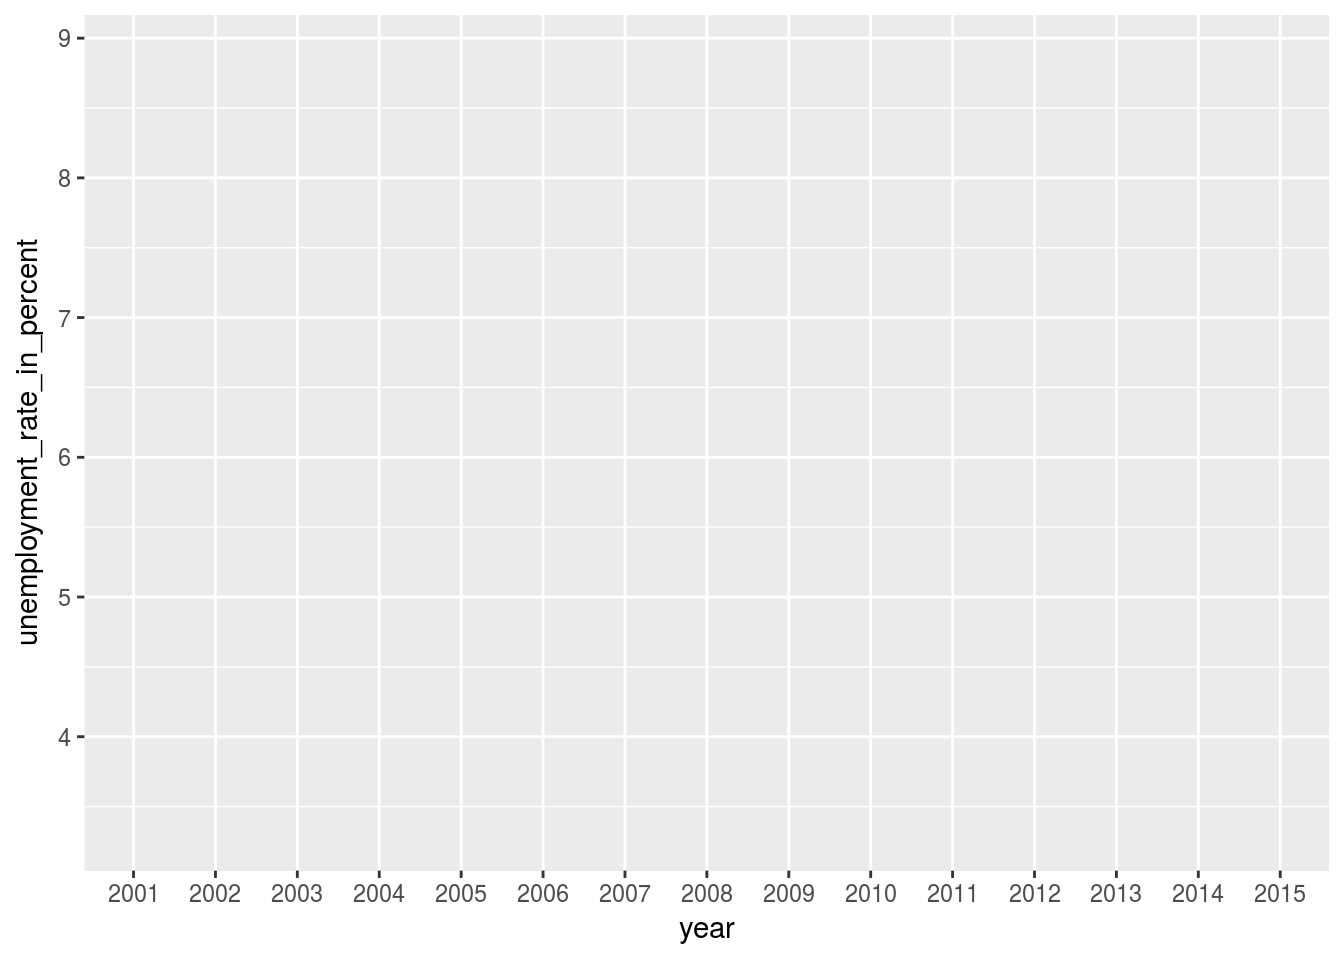
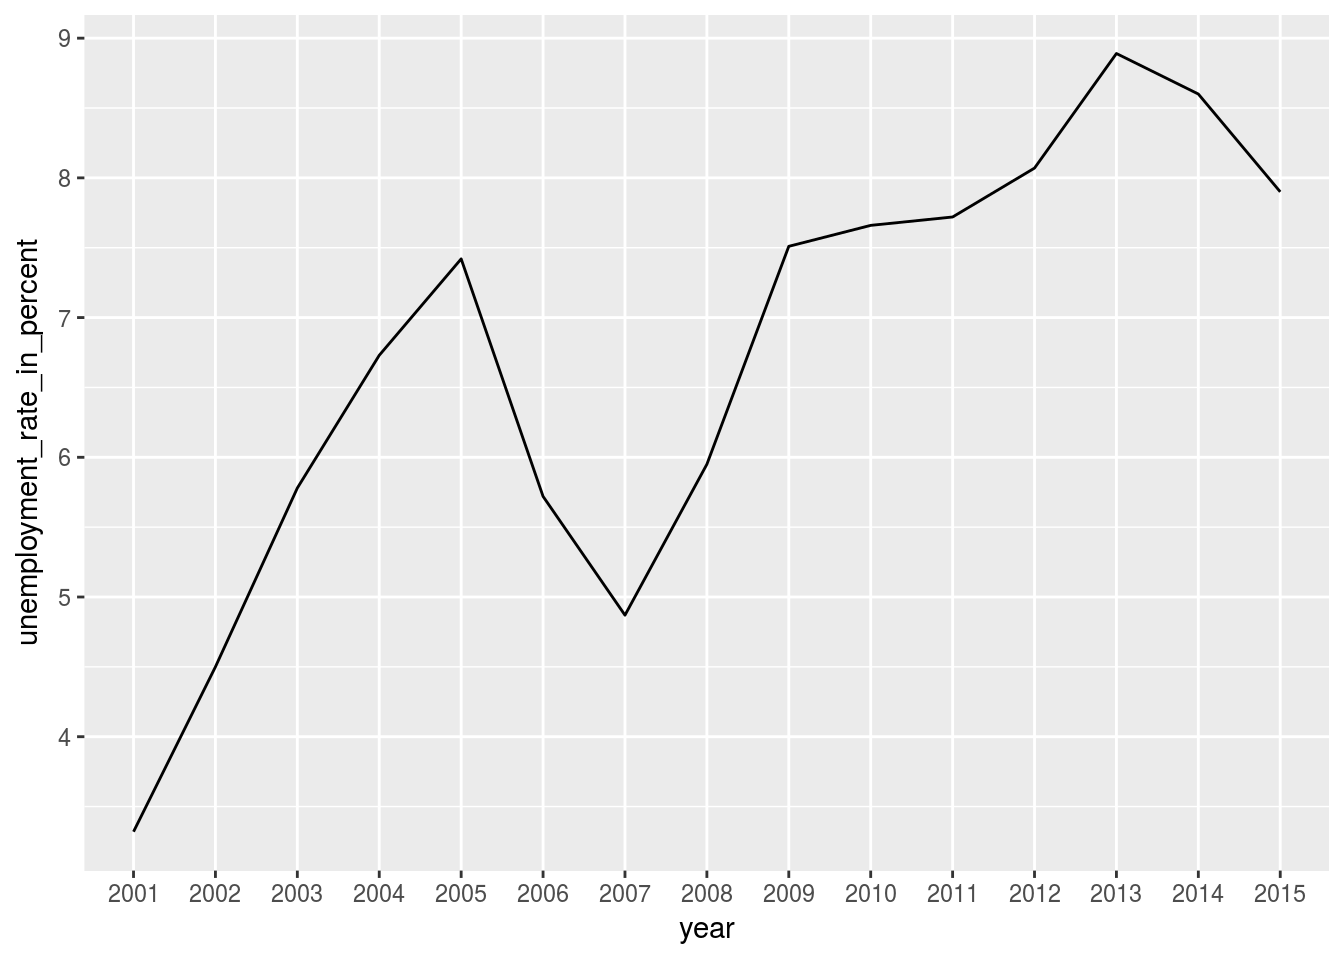
more on plots

diff --git a/_book/graphs.html b/_book/graphs.html
@@ -25,7 +25,7 @@
 <meta name="author" content="Bruno Rodrigues">
 
 
-<meta name="date" content="2017-10-13">
+<meta name="date" content="2017-10-16">
 
   <meta name="viewport" content="width=device-width, initial-scale=1">
   <meta name="apple-mobile-web-app-capable" content="yes">
@@ -190,6 +190,11 @@ code > span.in { color: #60a0b0; font-weight: bold; font-style: italic; } /* Inf
 <p>By default, it is possible to make a lot of graphs with R without the need of any external packages. However, in this chapter, we are going to learn how to make graphs using <code>ggplot2</code> which is a very powerful package that produces amazing graphs. There is an entry cost to <code>ggplot2</code> as it works in a very different way than what you would expect. But the resulting graphs are well worth the effort.</p>
 <div id="ggplot2" class="section level2">
 <h2><span class="header-section-number">6.1</span> ggplot2</h2>
+<p>Resources: <a href="http://www.cookbook-r.com/Graphs/">R Graphics Cookbook</a></p>
+<p><a href="http://motioninsocial.com/tufte/">Tufte in R</a></p>
+<p><a href="http://www.ggplot2-exts.org/gallery/">ggplot2 extensions</a></p>
+<p><a href="http://www.r-graph-gallery.com/portfolio/ggplot2-package/">R graph gallery</a></p>
+<p><a href="https://cran.r-project.org/web/packages/ggthemes/vignettes/ggthemes.html">ggthemes Vignette</a></p>
 <div id="barplots" class="section level3">
 <h3><span class="header-section-number">6.1.1</span> Barplots</h3>
 <div class="sourceCode"><pre class="sourceCode r"><code class="sourceCode r"><span class="kw">library</span>(ggplot2)
@@ -223,11 +228,38 @@ code > span.in { color: #60a0b0; font-weight: bold; font-style: italic; } /* Inf
 
 unemp_lux_data <span class="op">%&gt;%</span>
 <span class="st">  </span><span class="kw">filter</span>(division <span class="op">==</span><span class="st"> &quot;Luxembourg&quot;</span>) <span class="op">%&gt;%</span>
-<span class="st">  </span><span class="kw">ggplot</span>(<span class="kw">aes</span>(year, unemployment_rate_in_percent)) <span class="op">+</span>
+<span class="st">  </span><span class="kw">ggplot</span>(<span class="kw">aes</span>(year, unemployment_rate_in_percent, <span class="dt">group =</span> <span class="dv">1</span>)) <span class="op">+</span>
 <span class="st">  </span><span class="kw">geom_line</span>()</code></pre></div>
-<pre><code>## geom_path: Each group consists of only one observation. Do you need to
-## adjust the group aesthetic?</code></pre>
 <p><img src="modern_r_for_statec_files/figure-html/unnamed-chunk-105-1.png" width="672" /></p>
+<div class="sourceCode"><pre class="sourceCode r"><code class="sourceCode r">unemp_lux_data <span class="op">%&gt;%</span>
+<span class="st">  </span><span class="kw">filter</span>(division <span class="op">==</span><span class="st"> &quot;Luxembourg&quot;</span> <span class="op">|</span><span class="st"> </span>division <span class="op">==</span><span class="st"> &quot;Esch-sur-Alzette&quot;</span>) <span class="op">%&gt;%</span>
+<span class="st">  </span><span class="kw">ggplot</span>(<span class="kw">aes</span>(year, unemployment_rate_in_percent, <span class="dt">group =</span> division, <span class="dt">color =</span> division)) <span class="op">+</span>
+<span class="st">  </span><span class="kw">geom_line</span>()</code></pre></div>
+<p><img src="modern_r_for_statec_files/figure-html/unnamed-chunk-106-1.png" width="672" /></p>
+<div class="sourceCode"><pre class="sourceCode r"><code class="sourceCode r">unemp_lux_data <span class="op">%&gt;%</span>
+<span class="st">  </span><span class="kw">filter</span>(division <span class="op">==</span><span class="st"> &quot;Luxembourg&quot;</span> <span class="op">|</span><span class="st"> </span>division <span class="op">==</span><span class="st"> &quot;Esch-sur-Alzette&quot;</span>) <span class="op">%&gt;%</span>
+<span class="st">  </span><span class="kw">ggplot</span>(<span class="kw">aes</span>(year, unemployment_rate_in_percent, <span class="dt">group =</span> division, <span class="dt">color =</span> division)) <span class="op">+</span>
+<span class="st">  </span><span class="kw">theme</span>(<span class="dt">legend.position =</span> <span class="st">&quot;bottom&quot;</span>) <span class="op">+</span><span class="st"> </span>
+<span class="st">  </span><span class="kw">labs</span>(<span class="dt">title=</span><span class="st">&quot;Unemployment in Luxembourg and Esch/Alzette&quot;</span>, <span class="dt">x=</span><span class="st">&quot;Year&quot;</span>, <span class="dt">y =</span> <span class="st">&quot;Rate&quot;</span>)<span class="op">+</span>
+<span class="st">  </span><span class="kw">geom_line</span>()</code></pre></div>
+<p><img src="modern_r_for_statec_files/figure-html/unnamed-chunk-107-1.png" width="672" /></p>
+<div class="sourceCode"><pre class="sourceCode r"><code class="sourceCode r">unemp_lux_data <span class="op">%&gt;%</span>
+<span class="st">  </span><span class="kw">filter</span>(division <span class="op">==</span><span class="st"> &quot;Luxembourg&quot;</span> <span class="op">|</span><span class="st"> </span>division <span class="op">==</span><span class="st"> &quot;Esch-sur-Alzette&quot;</span>) <span class="op">%&gt;%</span>
+<span class="st">  </span><span class="kw">ggplot</span>(<span class="kw">aes</span>(year, unemployment_rate_in_percent, <span class="dt">group =</span> division, <span class="dt">color =</span> division)) <span class="op">+</span>
+<span class="st">    </span><span class="kw">theme_stata</span>() <span class="op">+</span><span class="st"> </span>
+<span class="st">    </span><span class="kw">theme</span>(<span class="dt">legend.position =</span> <span class="st">&quot;bottom&quot;</span>) <span class="op">+</span><span class="st"> </span>
+<span class="st">  </span><span class="kw">labs</span>(<span class="dt">title=</span><span class="st">&quot;Unemployment in Luxembourg and Esch/Alzette&quot;</span>, <span class="dt">x=</span><span class="st">&quot;Year&quot;</span>, <span class="dt">y =</span> <span class="st">&quot;Rate&quot;</span>) <span class="op">+</span>
+<span class="st">  </span><span class="kw">geom_line</span>()</code></pre></div>
+<p><img src="modern_r_for_statec_files/figure-html/unnamed-chunk-108-1.png" width="672" /></p>
+<div class="sourceCode"><pre class="sourceCode r"><code class="sourceCode r">unemp_lux_data <span class="op">%&gt;%</span>
+<span class="st">  </span><span class="kw">filter</span>(division <span class="op">==</span><span class="st"> &quot;Luxembourg&quot;</span> <span class="op">|</span><span class="st"> </span>division <span class="op">==</span><span class="st"> &quot;Esch-sur-Alzette&quot;</span>) <span class="op">%&gt;%</span>
+<span class="st">  </span><span class="kw">ggplot</span>(<span class="kw">aes</span>(year, unemployment_rate_in_percent, <span class="dt">group =</span> division, <span class="dt">color =</span> division)) <span class="op">+</span>
+<span class="st">  </span><span class="kw">theme_minimal</span>() <span class="op">+</span><span class="st"> </span>
+<span class="st">  </span><span class="kw">scale_color_hc</span>() <span class="op">+</span><span class="st"> </span>
+<span class="st">  </span><span class="kw">theme</span>(<span class="dt">legend.position =</span> <span class="st">&quot;bottom&quot;</span>, <span class="dt">legend.title =</span> <span class="kw">element_blank</span>()) <span class="op">+</span><span class="st"> </span>
+<span class="st">  </span><span class="kw">labs</span>(<span class="dt">title=</span><span class="st">&quot;Unemployment in Luxembourg and Esch/Alzette&quot;</span>, <span class="dt">x =</span> <span class="st">&quot;Year&quot;</span>, <span class="dt">y =</span> <span class="st">&quot;Rate&quot;</span>) <span class="op">+</span>
+<span class="st">  </span><span class="kw">geom_line</span>()</code></pre></div>
+<p><img src="modern_r_for_statec_files/figure-html/unnamed-chunk-109-1.png" width="672" /></p>
 
 </div>
 </div>

diff --git a/_book/data-manipulation-and-descriptive-statistics.html b/_book/data-manipulation-and-descriptive-statistics.html
@@ -25,7 +25,7 @@
 <meta name="author" content="Bruno Rodrigues">
 
 
-<meta name="date" content="2017-10-13">
+<meta name="date" content="2017-10-16">
 
   <meta name="viewport" content="width=device-width, initial-scale=1">
   <meta name="apple-mobile-web-app-capable" content="yes">
@@ -193,9 +193,16 @@ code > span.in { color: #60a0b0; font-weight: bold; font-style: italic; } /* Inf
 <div id="working-with-a-single-dataset" class="section level2">
 <h2><span class="header-section-number">5.1</span> Working with a single dataset</h2>
 <p>First, let’s load <code>dplyr</code> and the included <code>starwars</code> dataset. Let’s also take a look at the first 5 lines of the dataset:</p>
-<div class="sourceCode"><pre class="sourceCode r"><code class="sourceCode r"><span class="kw">library</span>(dplyr)
-
-<span class="kw">data</span>(starwars)
+<div class="sourceCode"><pre class="sourceCode r"><code class="sourceCode r"><span class="kw">library</span>(dplyr)</code></pre></div>
+<pre><code>## 
+## Attaching package: &#39;dplyr&#39;</code></pre>
+<pre><code>## The following objects are masked from &#39;package:stats&#39;:
+## 
+##     filter, lag</code></pre>
+<pre><code>## The following objects are masked from &#39;package:base&#39;:
+## 
+##     intersect, setdiff, setequal, union</code></pre>
+<div class="sourceCode"><pre class="sourceCode r"><code class="sourceCode r"><span class="kw">data</span>(starwars)
 
 <span class="kw">head</span>(starwars)</code></pre></div>
 <pre><code>## # A tibble: 6 x 13

diff --git a/_book/index.html b/_book/index.html
@@ -25,7 +25,7 @@
 <meta name="author" content="Bruno Rodrigues">
 
 
-<meta name="date" content="2017-10-13">
+<meta name="date" content="2017-10-16">
 
   <meta name="viewport" content="width=device-width, initial-scale=1">
   <meta name="apple-mobile-web-app-capable" content="yes">
@@ -188,7 +188,7 @@ code > span.in { color: #60a0b0; font-weight: bold; font-style: italic; } /* Inf
 <div id="header">
 <h1 class="title">Modern R for STATEC</h1>
 <h4 class="author"><em>Bruno Rodrigues</em></h4>
-<h4 class="date"><em>2017-10-13</em></h4>
+<h4 class="date"><em>2017-10-16</em></h4>
 </div>
 <div id="preface" class="section level1 unnumbered">
 <h1>Preface</h1>

diff --git a/_book/data-types-and-objects.html b/_book/data-types-and-objects.html
@@ -25,7 +25,7 @@
 <meta name="author" content="Bruno Rodrigues">
 
 
-<meta name="date" content="2017-10-13">
+<meta name="date" content="2017-10-16">
 
   <meta name="viewport" content="width=device-width, initial-scale=1">
   <meta name="apple-mobile-web-app-capable" content="yes">

diff --git a/_book/getting-to-know-rstudio.html b/_book/getting-to-know-rstudio.html
@@ -25,7 +25,7 @@
 <meta name="author" content="Bruno Rodrigues">
 
 
-<meta name="date" content="2017-10-13">
+<meta name="date" content="2017-10-16">
 
   <meta name="viewport" content="width=device-width, initial-scale=1">
   <meta name="apple-mobile-web-app-capable" content="yes">

diff --git a/_book/packages.html b/_book/packages.html
@@ -25,7 +25,7 @@
 <meta name="author" content="Bruno Rodrigues">
 
 
-<meta name="date" content="2017-10-13">
+<meta name="date" content="2017-10-16">
 
   <meta name="viewport" content="width=device-width, initial-scale=1">
   <meta name="apple-mobile-web-app-capable" content="yes">

diff --git a/_book/programming-with-r.html b/_book/programming-with-r.html
@@ -25,7 +25,7 @@
 <meta name="author" content="Bruno Rodrigues">
 
 
-<meta name="date" content="2017-10-13">
+<meta name="date" content="2017-10-16">
 
   <meta name="viewport" content="width=device-width, initial-scale=1">
   <meta name="apple-mobile-web-app-capable" content="yes">

diff --git a/_book/reading-and-writing-data-with-rio.html b/_book/reading-and-writing-data-with-rio.html
@@ -25,7 +25,7 @@
 <meta name="author" content="Bruno Rodrigues">
 
 
-<meta name="date" content="2017-10-13">
+<meta name="date" content="2017-10-16">
 
   <meta name="viewport" content="width=device-width, initial-scale=1">
   <meta name="apple-mobile-web-app-capable" content="yes">

diff --git a/_book/references.html b/_book/references.html
@@ -25,7 +25,7 @@
 <meta name="author" content="Bruno Rodrigues">
 
 
-<meta name="date" content="2017-10-13">
+<meta name="date" content="2017-10-16">
 
   <meta name="viewport" content="width=device-width, initial-scale=1">
   <meta name="apple-mobile-web-app-capable" content="yes">

diff --git a/_book/statistical-models.html b/_book/statistical-models.html
@@ -25,7 +25,7 @@
 <meta name="author" content="Bruno Rodrigues">
 
 
-<meta name="date" content="2017-10-13">
+<meta name="date" content="2017-10-16">
 
   <meta name="viewport" content="width=device-width, initial-scale=1">
   <meta name="apple-mobile-web-app-capable" content="yes">
